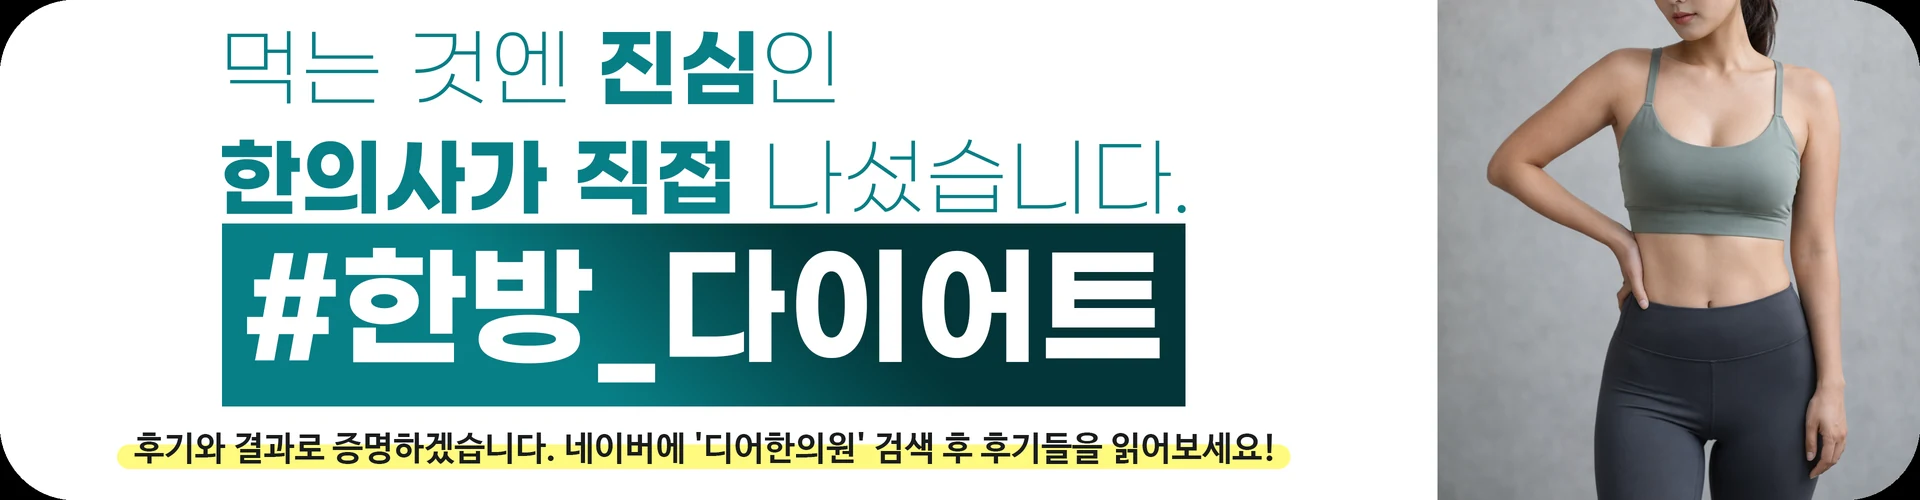
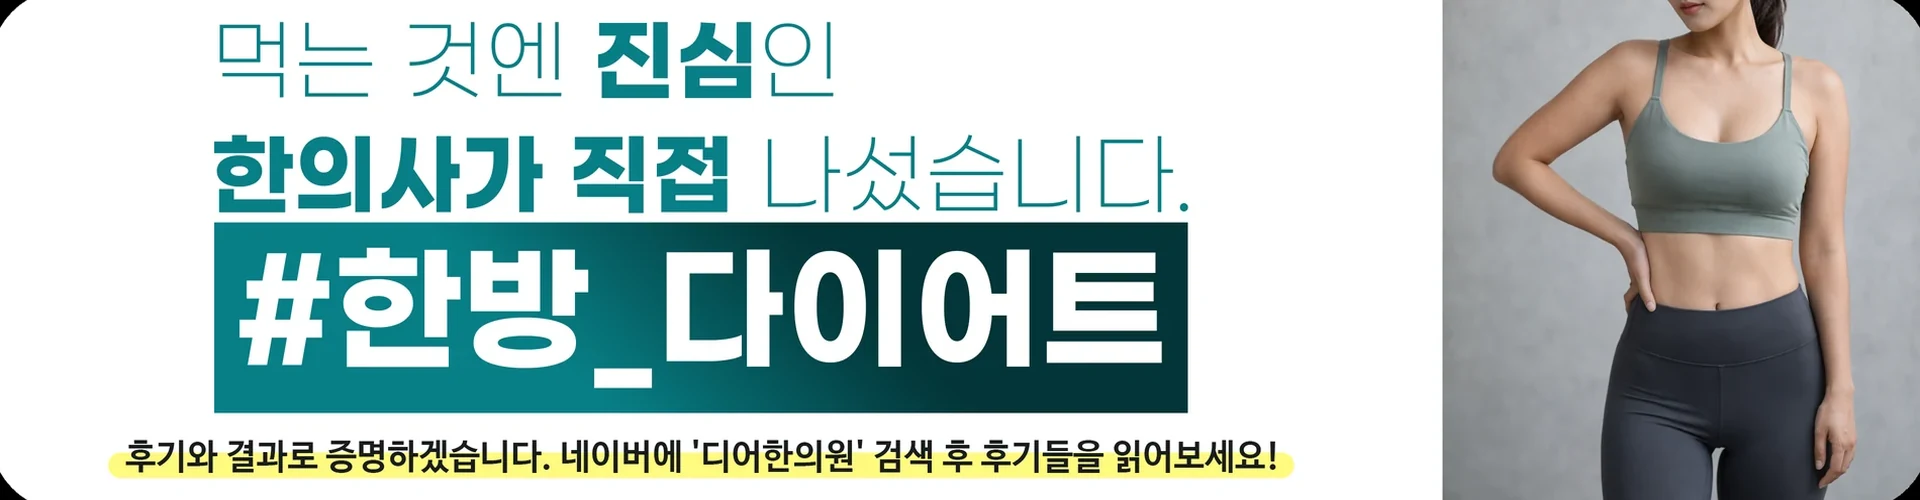
지방간 칼럼 배너 외곽선 제거

diff --git a/columns/gangnam-obesity-fatty-liver.html b/columns/gangnam-obesity-fatty-liver.html
@@ -146,7 +146,7 @@
 <div class="dear-journal__cta-group" aria-label="진료 상담 방법"><a class="dear-journal__primary-cta" href="https://m.booking.naver.com/booking/13/bizes/729883" target="_blank" rel="noopener">네이버 진료 예약</a><a class="dear-journal__primary-cta dear-journal__primary-cta--phone" href="tel:02-3486-1777">전화 상담 02-3486-1777</a></div></section>
 </article>
 <section class="dear-journal__references" aria-labelledby="references-title"><h2 id="references-title">참고문헌</h2><ol><li id="ref-1"><a href="https://www.jci.org/articles/view/23621" target="_blank" rel="noopener noreferrer">Donnelly KL, et al. Sources of fatty acids stored in liver and secreted via lipoproteins in patients with nonalcoholic fatty liver disease. J Clin Invest. 2005;115(5):1343–1351.</a></li><li id="ref-2"><a href="https://www.aasld.org/new-masld-nomenclature" target="_blank" rel="noopener noreferrer">American Association for the Study of Liver Diseases. New MASLD Nomenclature.</a></li><li id="ref-3"><a href="https://www.jci.org/articles/view/134165" target="_blank" rel="noopener noreferrer">Smith GI, et al. Insulin resistance drives hepatic de novo lipogenesis in nonalcoholic fatty liver disease. J Clin Invest. 2020;130(3):1453–1460.</a></li><li id="ref-4"><a href="https://pubmed.ncbi.nlm.nih.gov/35513235/" target="_blank" rel="noopener noreferrer">Ng CH, et al. Mortality Outcomes by Fibrosis Stage in Nonalcoholic Fatty Liver Disease. Clin Gastroenterol Hepatol. 2023;21(4):931–939.e5.</a></li><li id="ref-5"><a href="https://www.aasld.org/liver-fellow-network/core-series/clinical-pearls/spare-me-jab-noninvasive-assessment-patients-masld" target="_blank" rel="noopener noreferrer">American Association for the Study of Liver Diseases. Noninvasive Assessment of Patients with MASLD.</a></li><li id="ref-6"><a href="https://pubmed.ncbi.nlm.nih.gov/25865049/" target="_blank" rel="noopener noreferrer">Vilar-Gómez E, et al. Weight Loss Through Lifestyle Modification Significantly Reduces Features of Nonalcoholic Steatohepatitis. Gastroenterology. 2015;149(2):367–378.e5.</a></li></ol></section>
-<section class="dear-journal__banners" aria-label="디어한의원 한약과 다이어트 안내"><img src="../assets/images/columns/gangnam-depression-bdnf/banners/herbal-medicine.webp" alt="더 신중하게, 개인 상태부터 살펴 처방하는 디어한의원 한약" width="1920" height="500"><img src="../assets/images/columns/gangnam-obesity-fatty-liver/banners/diet-1.webp" alt="먹는 것에는 진심인 한의사가 직접 나선 디어한의원 한방 다이어트" width="1920" height="500"><img src="../assets/images/columns/gangnam-obesity-fatty-liver/banners/diet-2.webp" alt="운동 지도자 경력의 원장이 만드는 디어한의원 BE DEER 다이어트 프로그램" width="1920" height="500"></section>
+<section class="dear-journal__banners" aria-label="디어한의원 한약과 다이어트 안내"><img src="../assets/images/columns/gangnam-obesity-fatty-liver/banners/herbal-medicine.webp" alt="더 신중하게, 개인 상태부터 살펴 처방하는 디어한의원 한약" width="1920" height="500"><img src="../assets/images/columns/gangnam-obesity-fatty-liver/banners/diet-1.webp" alt="먹는 것에는 진심인 한의사가 직접 나선 디어한의원 한방 다이어트" width="1920" height="500"><img src="../assets/images/columns/gangnam-obesity-fatty-liver/banners/diet-2.webp" alt="운동 지도자 경력의 원장이 만드는 디어한의원 BE DEER 다이어트 프로그램" width="1920" height="500"></section>
 <section class="column-nap dear-journal__clinic" aria-labelledby="clinic-info"><p class="column-section-label">DEAR KOREAN MEDICINE CLINIC</p><h2 id="clinic-info">디어한의원</h2><address>서울 서초구 사임당로 143 3층 309호, 310호<br><a href="tel:02-3486-1777">02-3486-1777</a></address><p class="dear-journal__clinic-meta">강남역과 교대역 사이, 서초동에 위치합니다.</p><div class="dear-journal__clinic-actions"><a href="https://m.booking.naver.com/booking/13/bizes/729883" target="_blank" rel="noopener">네이버 진료 예약</a><a href="tel:02-3486-1777">전화 상담</a><a href="https://map.naver.com/p/search/%EB%94%94%EC%96%B4%ED%95%9C%EC%9D%98%EC%9B%90" target="_blank" rel="noopener">네이버 지도에서 보기</a></div></section>
 <section class="dear-journal__map" aria-labelledby="directions-title"><h2 id="directions-title">오시는 길</h2><iframe src="https://maps.google.com/maps?q=37.4918829,127.0252346&amp;t=&amp;z=16&amp;ie=UTF8&amp;iwloc=&amp;output=embed" loading="lazy" referrerpolicy="no-referrer-when-downgrade" title="디어한의원 오시는 길 지도 (서울 서초구 사임당로 143)"></iframe></section></main>
 <footer class="footer" id="contact"><div class="footer__inner"><div class="footer__top"><div class="footer__brand"><img class="footer__logo-img" src="../assets/images/logo-full-white.png" alt="디어한의원 로고" width="84" height="140" loading="lazy"><p class="footer__slogan">ALWAYS &quot;DEAR&quot; YOU</p></div></div><div class="footer__nap-row"><address class="footer__nap">디어한의원 · 대표자 김민지 · 사업자등록번호 828-09-02466<br>서울 서초구 사임당로 143 3층 309호, 310호<br><a href="tel:02-3486-1777">02-3486-1777</a></address><div class="footer__legal-links"><a href="../privacy.html">개인정보처리방침</a><a href="../non-covered.html">비급여항목 안내</a><a href="../patient-rights.html">환자의 권리와 의무</a></div></div><p class="footer__copyright">COPYRIGHT &copy; 2022 DEAR CLINIC. ALL RIGHTS RESERVED.</p></div></footer><script src="../js/main.js?v=20260805-1"></script></body></html>

diff --git a/HANDOFF.md b/HANDOFF.md
@@ -15,7 +15,7 @@
 ## 2026-08-07 세션 마감 인수인계
 
 - 강남역 비만 진료와 지방간 저널형 칼럼을 `columns/gangnam-obesity-fatty-liver.html`에 추가했다. 사용자가 제공한 원고의 문장과 순서를 보존하고, 정상 AST·ALT와 지방간 소견의 차이, Donnelly 간 지방 출처 59.0/26.1/14.9, Smith DNL 11/19/38, 가상 검진 타임라인, 섬유화 단계와 FIB-4, Vilar-Gómez 체중 감량 연구를 HTML/CSS 기반 학술 Figure로 재구성했다. 원 논문 Figure는 복제하거나 hotlink하지 않았고 각 수치는 연구집단 결과와 개인 적용의 차이를 캡션에 명시했다.
-- 새 지방간 칼럼은 우울증·BDNF 칼럼과 같은 흰 배경, 절제된 소제목과 문단 간격, 네이버 예약·전화 CTA, NAP 카드, 오시는 길 지도를 사용한다. 하단 배너는 `한약 → 한방 다이어트 → BE DEER 프로그램` 3장 순서이며 이 글에서는 공진단 배너를 사용하지 않는다. 배너 이미지·NAP 카드·지도는 데스크톱 1040px, 모바일 `calc(100% - 48px)`로 보이는 좌우 끝을 통일하고 각 구역 사이 5.5rem 간격과 중앙 연결선을 유지한다. Columns `오늘의 글`과 카드 목록 최상단에 배치하고 sitemap에 추가했다. 대표 이미지는 시그니처 사슴이 헬스장 러닝머신을 뛰며 `아 왜 안 빠지지 ㅠㅠ`라고 말하는 인스타툰형 `assets/images/columns/gangnam-obesity-fatty-liver/cover-instattoon.webp`이며, 공유용 1200×630 이미지는 `og-20260807.jpg`다.
+- 새 지방간 칼럼은 우울증·BDNF 칼럼과 같은 흰 배경, 절제된 소제목과 문단 간격, 네이버 예약·전화 CTA, NAP 카드, 오시는 길 지도를 사용한다. 하단 배너는 `한약 → 한방 다이어트 → BE DEER 프로그램` 3장 순서이며 이 글에서는 공진단 배너를 사용하지 않는다. 세 배너의 원본 검은 모서리 선은 가장자리만 소폭 크롭해 제거한 전용 WebP를 사용한다. 배너 이미지·NAP 카드·지도는 데스크톱 1040px, 모바일 `calc(100% - 48px)`로 보이는 좌우 끝을 통일하고 각 구역 사이 5.5rem 간격과 중앙 연결선을 유지한다. Columns `오늘의 글`과 카드 목록 최상단에 배치하고 sitemap에 추가했다. 대표 이미지는 시그니처 사슴이 헬스장 러닝머신을 뛰며 `아 왜 안 빠지지 ㅠㅠ`라고 말하는 인스타툰형 `assets/images/columns/gangnam-obesity-fatty-liver/cover-instattoon.webp`이며, 공유용 1200×630 이미지는 `og-20260807.jpg`다.
 - BE DEER의 대표 체성분 사례와 후기 사이에 `다이어트 진료 사례 더 보기` 브릿지를 추가하고, 별도 아카이브 `be-deer-cases.html`로 연결했다. 제공받은 17건의 전·후 결과지 34장은 이름·회원번호·측정일이 있는 상단 전체 영역을 비식별 처리하고 EXIF 메타데이터를 제거한 WebP로만 공개한다. 원본 파일명과 폴더명은 저장소에 남기지 않는다. 아카이브는 효과를 단정하거나 임의 변화량을 계산하지 않고 `관리 시작`·`경과 확인` 측정지를 나란히 보여주며, 측정 조건과 개인차에 관한 안내를 함께 둔다.
 - 사례 아카이브의 제목은 원본 결과지에서 확인한 연령대·성별만 사용해 `30대 여성 사례` 형식으로 표시한다. 각 사례 아래에는 체중·체지방량·내장지방레벨의 관리 시작값, 경과 확인값, 변화량을 함께 보여준다. `자세히 보기`는 `be-deer-case.html?case=01` 형식의 고정 주소로 연결하며, 현재는 noindex 상태의 상세 칼럼 연결 화면이다. 추후 로그인 여부에 따른 열람 흐름이나 사례별 칼럼을 구현해도 목록 링크는 유지한다.
 - 메인 BE DEER의 사례 아카이브 브릿지는 한 공간의 단체사진이 아니라 가상의 성인 20명이 각기 다른 생활 공간에서 웃는 개별 화면을 7·7·6칸으로 재배열한 비디오 월 배경을 사용한다. 텍스트와 `17 CASES`가 먼저 읽히도록 채도와 대비를 낮추고 흰색 오버레이를 유지한다. 실제 환자 사진이나 치료 전후 사진으로 오해될 표현은 사용하지 않는다.
